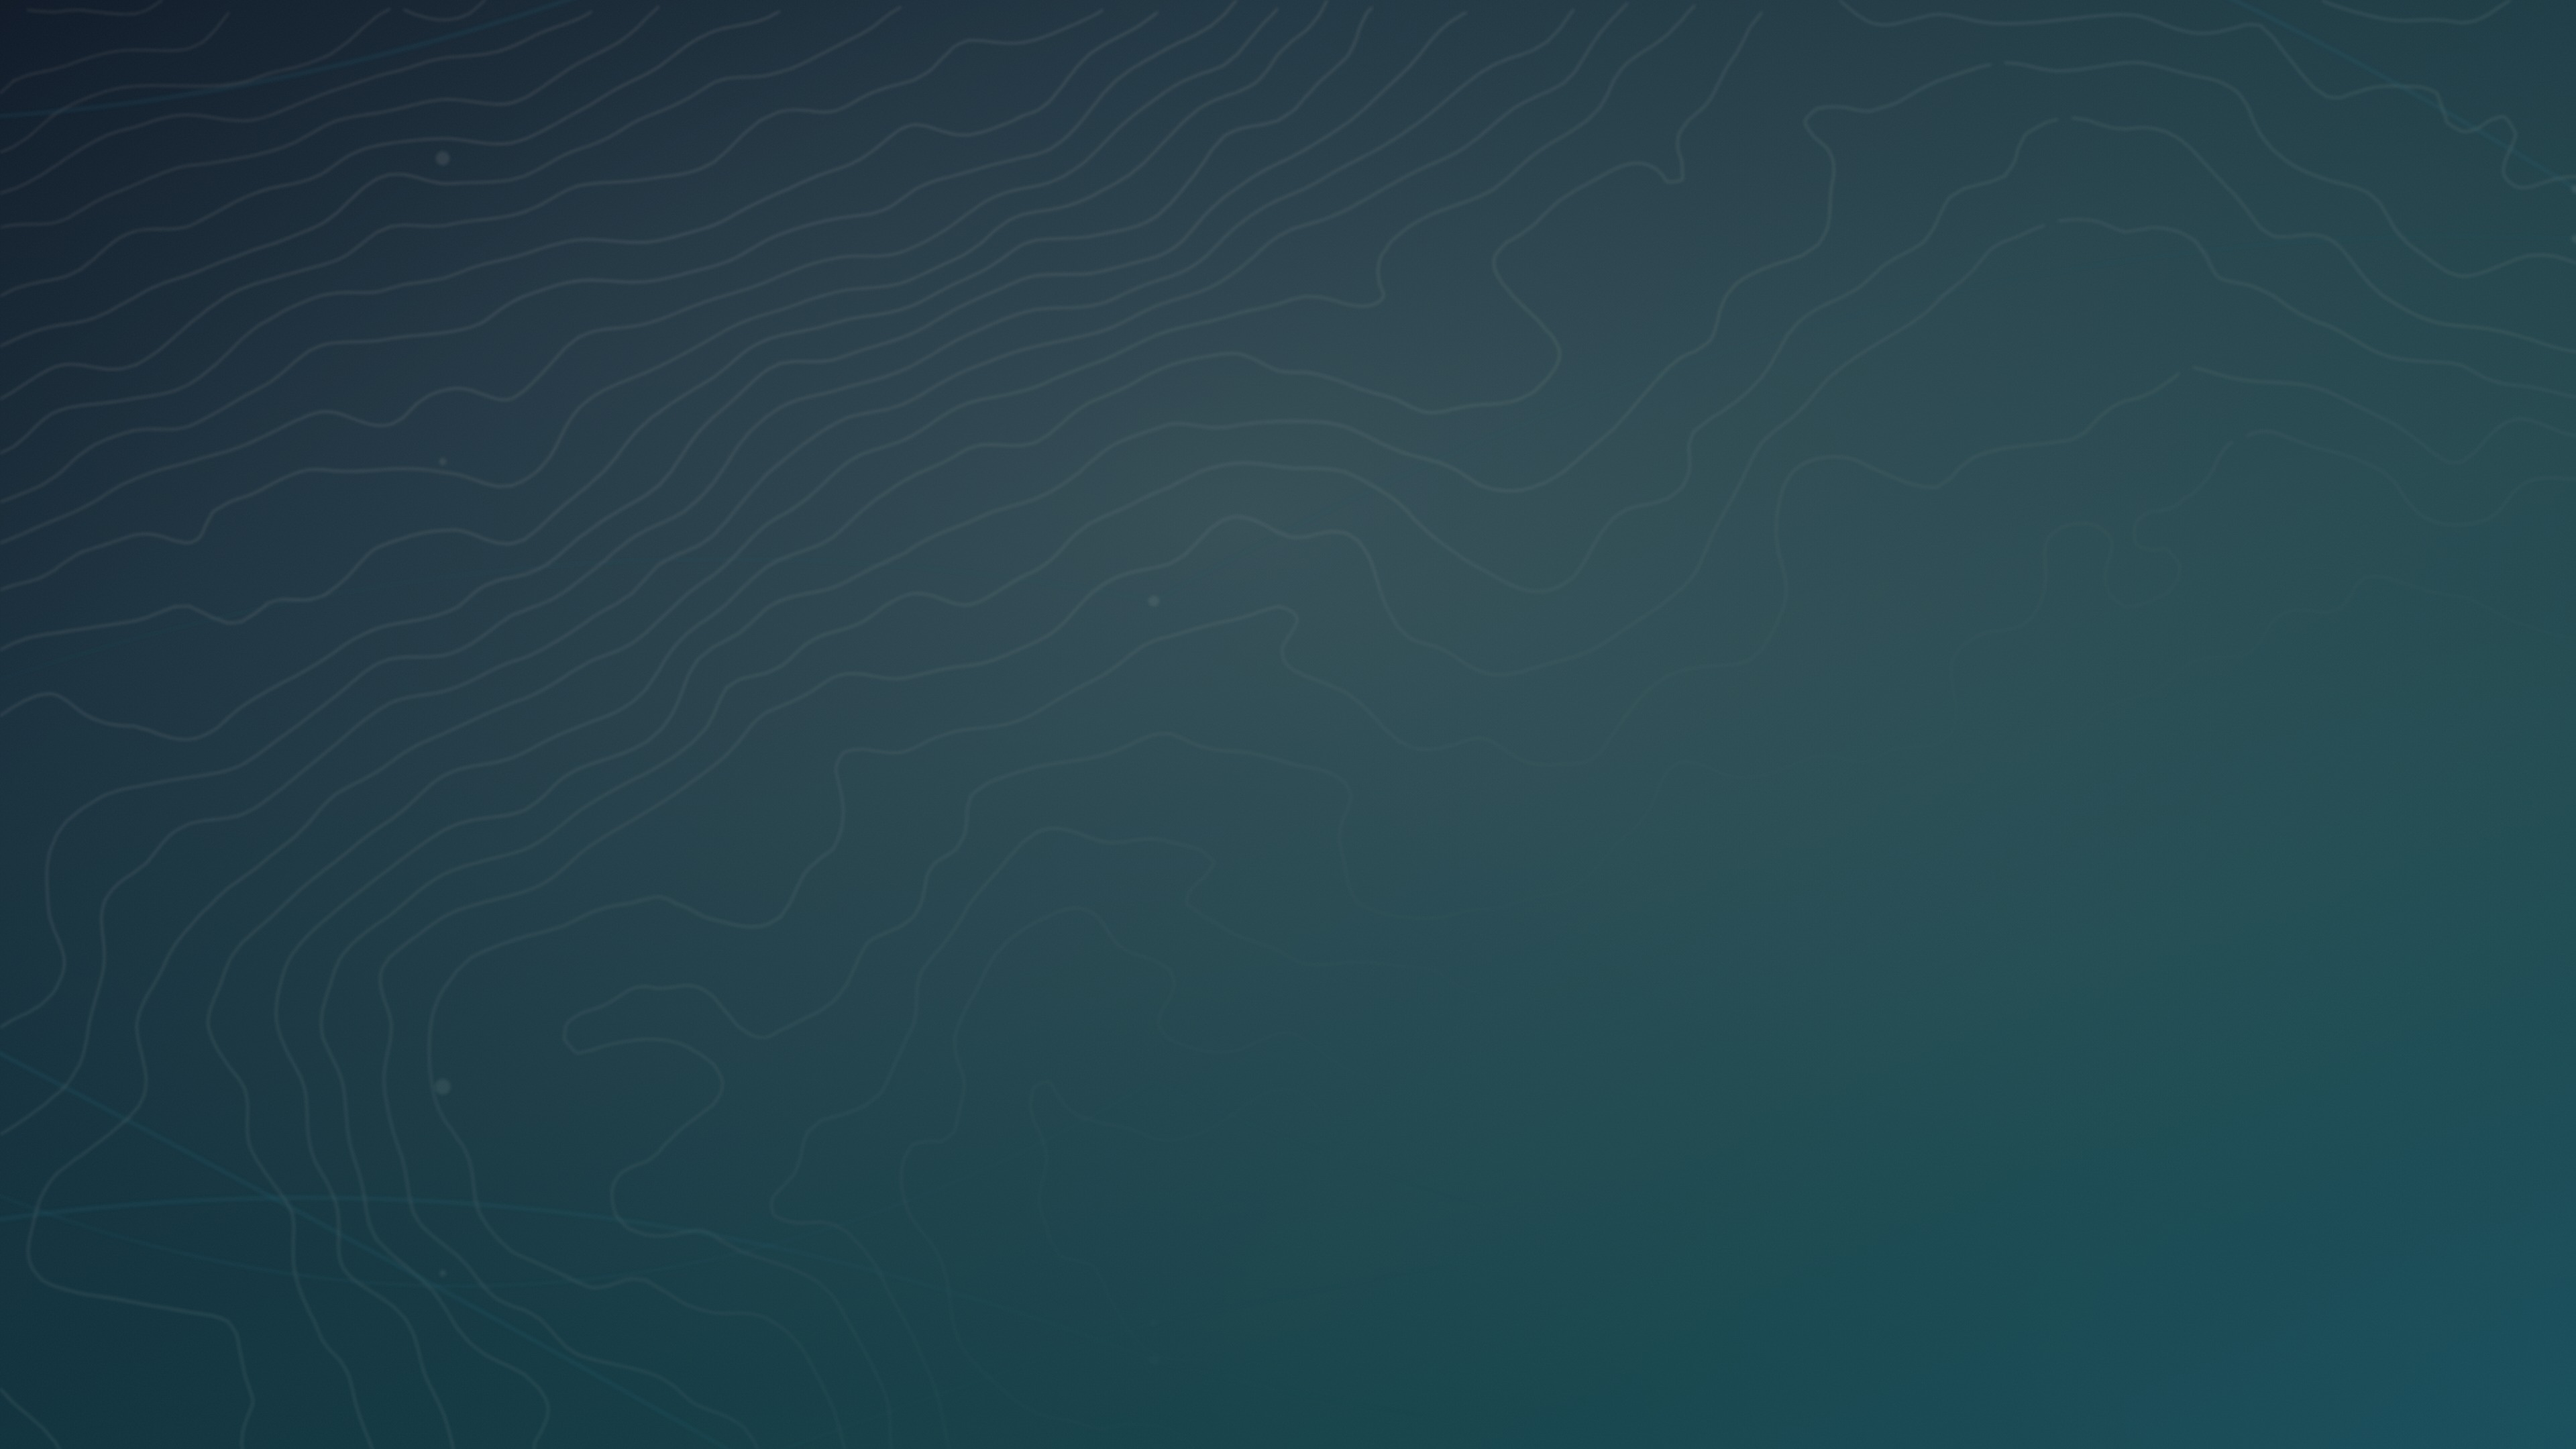
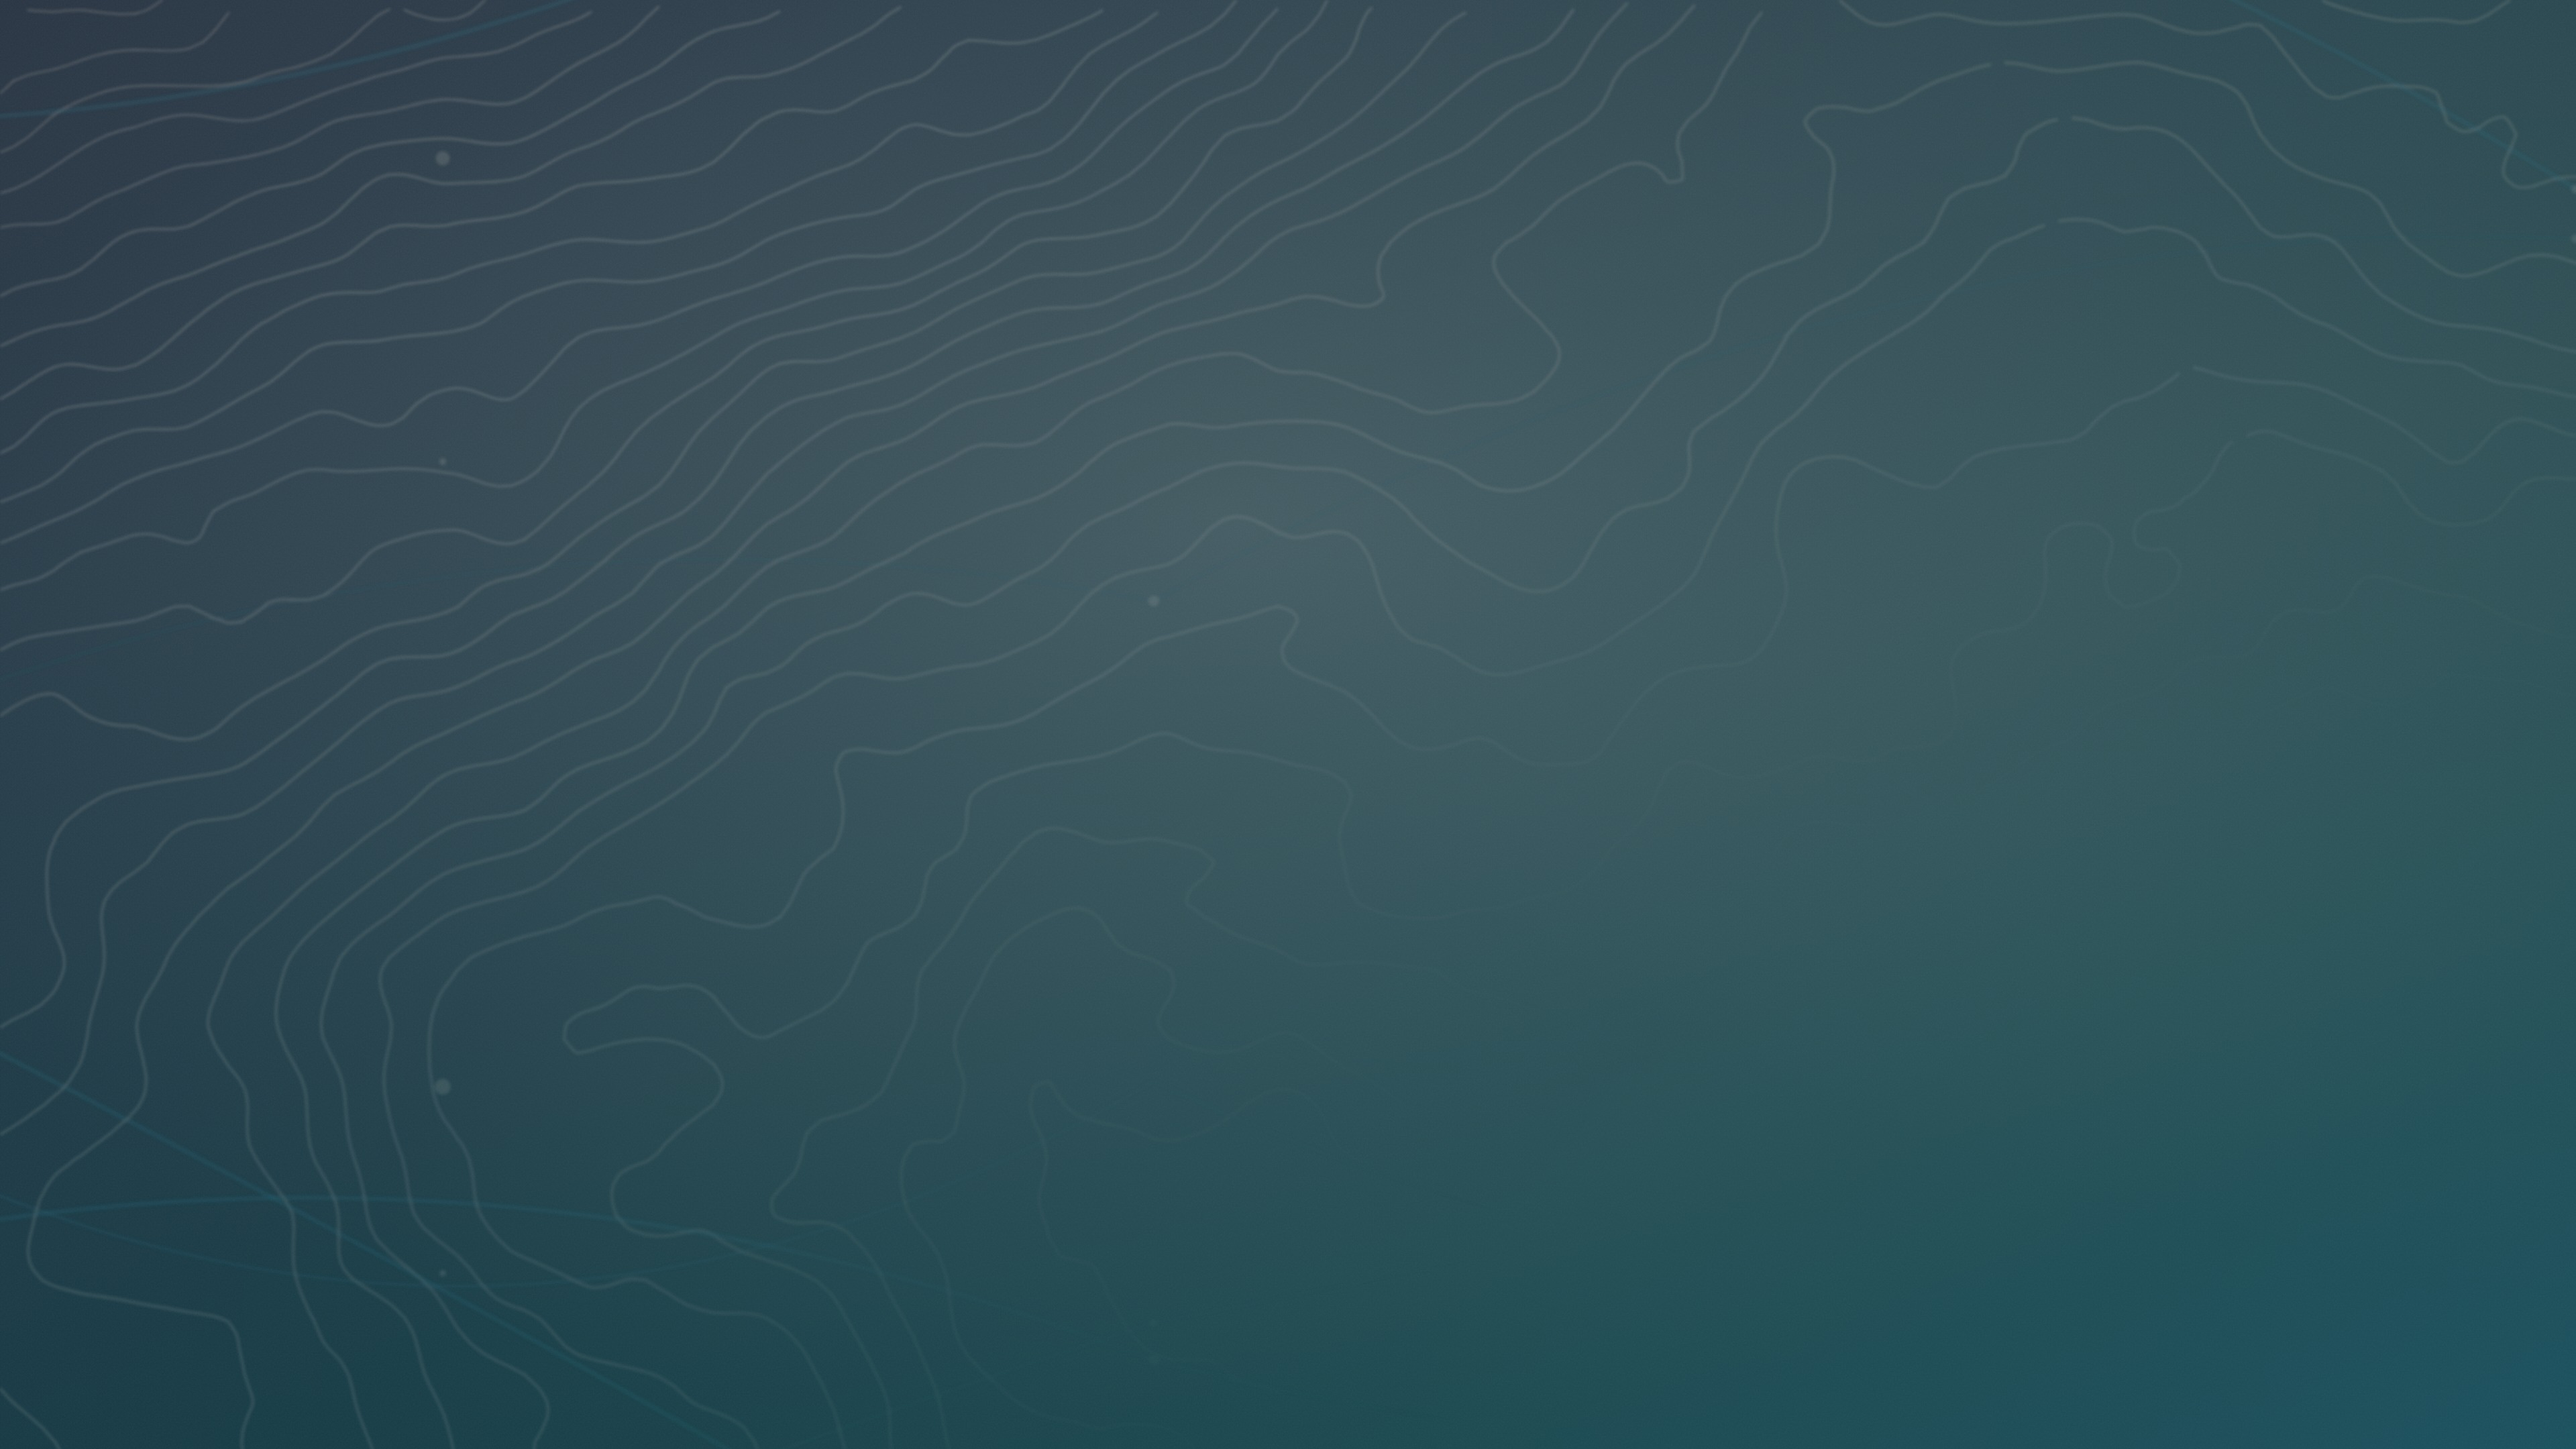
Hero: more presence at the edges; sharpen the subheading
BACKGROUND — same composition, roughly +25% on the raw values to land the
10-15% more presence Paul asked for, while keeping the centre quiet:
contour alpha and width up, strata and blooms up, grain up. The vignette was
relaxed from 0.42 to 0.20 and a faint ivory #edgeLift added — a vignette
darkens precisely the edges the brief wants lifted, so it was working against
the request.

Measured on the render (high-pass mean, centre = 1.00x): centre 1.27,
left 1.68x, top 1.72x. The centre came out QUIETER than before (1.27 vs 1.48)
while the edges gained, which is the shape the panel wants. White text on the
panel over this: 10.10:1.

Two intermediate attempts are recorded in the README rather than shipped. A
frame-distance field was tried to even out the right and bottom edges; it did
not move them much and cost the composition its diagonal flow, so the approved
radial field was restored — the brief asked for more presence, not a new
composition.

Also fixed a real trap in the generator: gen.py writes contours.json next to
itself while build.py reads from cwd, and a git checkout of gen.py restored an
absolute scratch path, so gen wrote one place and build silently consumed a
stale file. The tell was an identical svg byte count across two runs with
different contour counts. Paths are relative now and the trap is documented.

SUBHEADING — "Comprehensive, personalized care" duplicated what the headline
already says. Now "Specialized neuropsychological care in English and
[…]

Changed region(s): [[0.0, 0.0, 0.2188, 0.1861], [0.0938, 0.1551, 0.125, 0.2171], [0.0, 0.1861, 0.0312, 0.2171]]

diff --git a/app/page.tsx b/app/page.tsx
@@ -32,15 +32,15 @@ export default function HomePage() {
         />
         <div className="relative max-w-5xl mx-auto px-6 py-20">
           <div className="hero-panel text-center px-5 py-10 sm:px-12 sm:py-14">
-            {/* "Comprehensive" led the headline and made the reader work before
-                they knew what the practice does; it now sits in the supporting
-                line, where the service already implies it. */}
+            {/* The headline already names the service, so the supporting line
+                does positioning work instead: "Specialized" signals that this is
+                not a general counselling practice. */}
             <h1 className="font-cormorant text-3xl sm:text-4xl md:text-5xl font-light tracking-tight leading-[1.15] [hyphens:auto] break-words">
               <span className="block">Neuropsychological Evaluations &amp; Therapy</span>
               <span className="block">for Adolescents and Adults</span>
             </h1>
             <p className="text-lg sm:text-xl text-white/90 max-w-2xl mx-auto mt-6 leading-relaxed">
-              Comprehensive, personalized care in English and Persian/Farsi.
+              Specialized neuropsychological care in English and Persian/Farsi.
             </p>
 
             {/* Five lines, grouped so related evaluations share one row rather than

diff --git a/tools/hero/build.py b/tools/hero/build.py
@@ -31,15 +31,15 @@ for k in range(9):
 contour_svg = []
 for d, t in contours:
     if not d: continue
-    op = 0.05 + 0.16 * t
-    wdt = 1.1 + 1.5 * (1 - t)
+    op = 0.065 + 0.205 * t
+    wdt = 1.2 + 1.7 * (1 - t)
     contour_svg.append(f'<path d="{d}" fill="none" stroke="{IVORY}" stroke-opacity="{op:.3f}" stroke-width="{wdt:.2f}"/>')
 
 path_svg = "".join(
-    f'<path d="{d}" fill="none" stroke="{OCEAN_HI}" stroke-opacity="{0.10 + 0.05*(i%3)}" stroke-width="{1.6 + (i%3)*0.9:.1f}"/>'
+    f'<path d="{d}" fill="none" stroke="{OCEAN_HI}" stroke-opacity="{0.13 + 0.065*(i%3)}" stroke-width="{1.6 + (i%3)*0.9:.1f}"/>'
     for i, d in enumerate(paths))
 node_svg = "".join(
-    f'<circle cx="{x:.0f}" cy="{y:.0f}" r="{r:.1f}" fill="{IVORY}" fill-opacity="0.14"/>' for x, y, r in nodes)
+    f'<circle cx="{x:.0f}" cy="{y:.0f}" r="{r:.1f}" fill="{IVORY}" fill-opacity="0.18"/>' for x, y, r in nodes)
 
 svg = f'''<svg xmlns="http://www.w3.org/2000/svg" width="{W}" height="{H}" viewBox="0 0 {W} {H}">
   <defs>
@@ -51,16 +51,16 @@ svg = f'''<svg xmlns="http://www.w3.org/2000/svg" width="{W}" height="{H}" viewB
     </linearGradient>
 
     <radialGradient id="bloomA" cx="24%" cy="18%" r="52%">
-      <stop offset="0%"   stop-color="{IVORY}" stop-opacity="0.20"/>
-      <stop offset="60%"  stop-color="{IVORY}" stop-opacity="0.05"/>
+      <stop offset="0%"   stop-color="{IVORY}" stop-opacity="0.26"/>
+      <stop offset="60%"  stop-color="{IVORY}" stop-opacity="0.07"/>
       <stop offset="100%" stop-color="{IVORY}" stop-opacity="0"/>
     </radialGradient>
     <radialGradient id="bloomB" cx="82%" cy="76%" r="46%">
-      <stop offset="0%"   stop-color="{OCEAN_HI}" stop-opacity="0.26"/>
+      <stop offset="0%"   stop-color="{OCEAN_HI}" stop-opacity="0.34"/>
       <stop offset="100%" stop-color="{OCEAN_HI}" stop-opacity="0"/>
     </radialGradient>
     <radialGradient id="bloomC" cx="58%" cy="8%" r="38%">
-      <stop offset="0%"   stop-color="{WARM_GRAY}" stop-opacity="0.10"/>
+      <stop offset="0%"   stop-color="{WARM_GRAY}" stop-opacity="0.14"/>
       <stop offset="100%" stop-color="{WARM_GRAY}" stop-opacity="0"/>
     </radialGradient>
 
@@ -77,16 +77,26 @@ svg = f'''<svg xmlns="http://www.w3.org/2000/svg" width="{W}" height="{H}" viewB
       <rect width="{W}" height="{H}" fill="url(#centerMask)"/>
     </mask>
 
-    <radialGradient id="vig" cx="50%" cy="46%" r="76%">
+    <radialGradient id="vig" cx="50%" cy="46%" r="78%">
       <stop offset="0%"   stop-color="#000" stop-opacity="0"/>
-      <stop offset="70%"  stop-color="#000" stop-opacity="0.10"/>
-      <stop offset="100%" stop-color="#000" stop-opacity="0.42"/>
+      <stop offset="72%"  stop-color="#000" stop-opacity="0.05"/>
+      <stop offset="100%" stop-color="#000" stop-opacity="0.20"/>
+    </radialGradient>
+
+    <!-- Counter-lift: the brief asks for lighter, more dimensional edges, and a
+         vignette does the opposite. This adds a faint ivory rim so the corners
+         gain luminance and depth while the centre stays untouched. -->
+    <radialGradient id="edgeLift" cx="50%" cy="50%" r="74%">
+      <stop offset="0%"   stop-color="{IVORY}" stop-opacity="0"/>
+      <stop offset="58%"  stop-color="{IVORY}" stop-opacity="0"/>
+      <stop offset="86%"  stop-color="{IVORY}" stop-opacity="0.05"/>
+      <stop offset="100%" stop-color="{IVORY}" stop-opacity="0.10"/>
     </radialGradient>
 
     <filter id="grain" x="0" y="0" width="100%" height="100%">
       <feTurbulence type="fractalNoise" baseFrequency="0.85" numOctaves="3" seed="11" result="n"/>
       <feColorMatrix in="n" type="saturate" values="0"/>
-      <feComponentTransfer><feFuncA type="linear" slope="0.055"/></feComponentTransfer>
+      <feComponentTransfer><feFuncA type="linear" slope="0.070"/></feComponentTransfer>
     </filter>
 
     <filter id="soften"><feGaussianBlur stdDeviation="1.1"/></filter>
@@ -98,10 +108,10 @@ svg = f'''<svg xmlns="http://www.w3.org/2000/svg" width="{W}" height="{H}" viewB
   <rect width="{W}" height="{H}" fill="url(#bloomC)"/>
 
   <!-- translucent organic strata -->
-  <g opacity="0.5" mask="url(#edgeBias)">
-    <ellipse cx="{int(W*0.14)}" cy="{int(H*0.82)}" rx="{int(W*0.42)}" ry="{int(H*0.30)}" fill="{DEEP_TEAL}" fill-opacity="0.30"/>
-    <ellipse cx="{int(W*0.92)}" cy="{int(H*0.16)}" rx="{int(W*0.34)}" ry="{int(H*0.26)}" fill="{OCEAN}" fill-opacity="0.24"/>
-    <ellipse cx="{int(W*0.62)}" cy="{int(H*1.02)}" rx="{int(W*0.40)}" ry="{int(H*0.24)}" fill="{MIDNIGHT}" fill-opacity="0.28"/>
+  <g opacity="0.66" mask="url(#edgeBias)">
+    <ellipse cx="{int(W*0.14)}" cy="{int(H*0.82)}" rx="{int(W*0.42)}" ry="{int(H*0.30)}" fill="{DEEP_TEAL}" fill-opacity="0.36"/>
+    <ellipse cx="{int(W*0.92)}" cy="{int(H*0.16)}" rx="{int(W*0.34)}" ry="{int(H*0.26)}" fill="{OCEAN}" fill-opacity="0.30"/>
+    <ellipse cx="{int(W*0.62)}" cy="{int(H*1.02)}" rx="{int(W*0.40)}" ry="{int(H*0.24)}" fill="{MIDNIGHT}" fill-opacity="0.32"/>
   </g>
 
   <g mask="url(#edgeBias)" filter="url(#soften)">
@@ -110,7 +120,8 @@ svg = f'''<svg xmlns="http://www.w3.org/2000/svg" width="{W}" height="{H}" viewB
   </g>
 
   <rect width="{W}" height="{H}" fill="url(#vig)"/>
-  <rect width="{W}" height="{H}" filter="url(#grain)" opacity="0.55"/>
+  <rect width="{W}" height="{H}" fill="url(#edgeLift)"/>
+  <rect width="{W}" height="{H}" filter="url(#grain)" opacity="0.68"/>
 </svg>'''
 
 open('hero.svg', 'w').write(svg)

diff --git a/tools/hero/gen.py b/tools/hero/gen.py
@@ -126,6 +126,6 @@ for li, lv in enumerate(levels):
     for pts in chain(contour_segments(field, lv)):
         contour_paths.append((to_svg_path(pts, sx, sy), li / len(levels)))
 print(f"contours: {len(contour_paths)} paths")
-np.save('/private/tmp/claude-501/-Users-paultoomey/8949e8d0-7e14-4c16-aeec-79507f258b31/scratchpad/hero/field.npy', field)
+np.save('field.npy', field)
 import json
-json.dump(contour_paths, open('/private/tmp/claude-501/-Users-paultoomey/8949e8d0-7e14-4c16-aeec-79507f258b31/scratchpad/hero/contours.json','w'))
+json.dump(contour_paths, open('contours.json','w'))

diff --git a/tools/hero/README.md b/tools/hero/README.md
@@ -28,3 +28,25 @@ Two reasons this is vector-generated rather than photographic:
 
 Palette matches `app/globals.css`: midnight `#0a1b30`, deep teal `#0d3f47`,
 ocean `#1d5f78` / `#2b7c94`, ivory `#f2ece1`, warm gray `#a9a196`.
+
+## Presence tuning (2026-08-18)
+
+Second pass, after "elegant but almost too subtle": roughly +25% on the raw
+values to land ~10-15% more perceived presence.
+
+- contour stroke alpha `0.05 + 0.16t` -> `0.065 + 0.205t`, line width up
+- strata group `0.5` -> `0.66`, ellipse fills up ~20%
+- blooms up ~30%, grain `0.055/0.55` -> `0.070/0.68`
+- vignette relaxed `0.42` -> `0.20`, and a new `#edgeLift` adds a faint ivory
+  rim, because a vignette DARKENS exactly the edges the brief wants lifted
+
+Measured on the render (high-pass mean, centre = 1.00x):
+centre 1.27, left 1.68x, top 1.72x, right 0.96x, bottom 0.90x. The centre came
+out quieter than the previous version (1.27 vs 1.48) while the edges gained.
+White text on the panel over this: 10.10:1.
+
+⚠ `gen.py` writes `contours.json` NEXT TO ITSELF and `build.py` reads it from
+the cwd. Run both from this directory. A `git checkout` of gen.py once restored
+an absolute scratch path, so gen wrote one place and build read a stale file
+elsewhere — the tell was an identical `svg bytes` count across two runs that had
+different contour counts.
